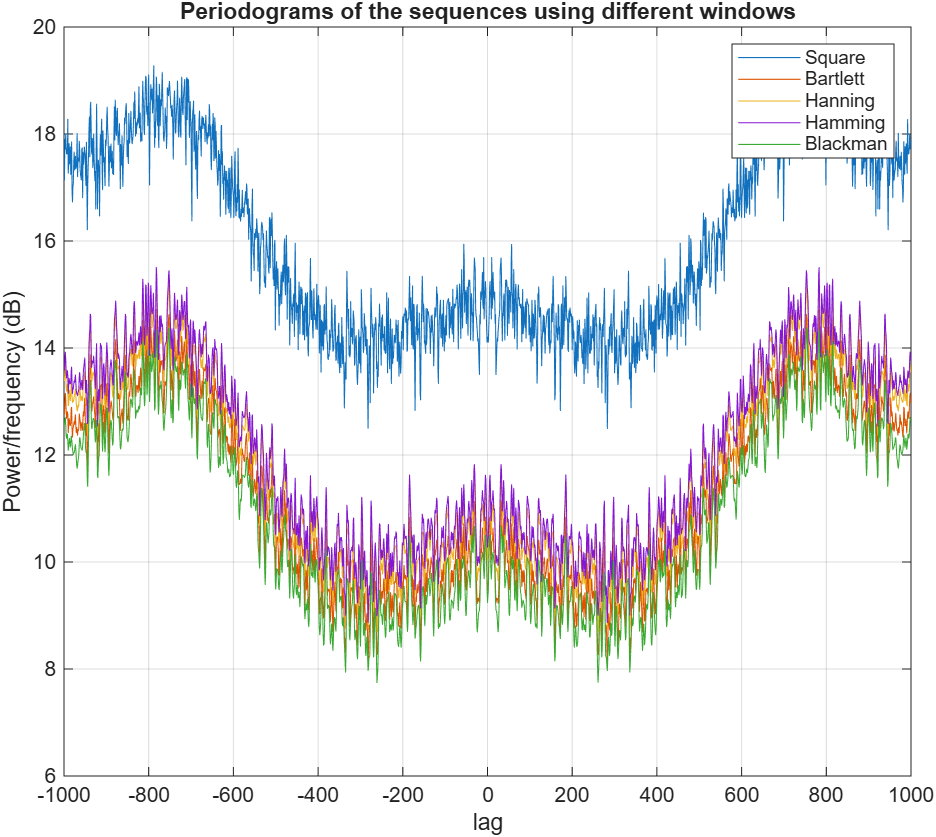
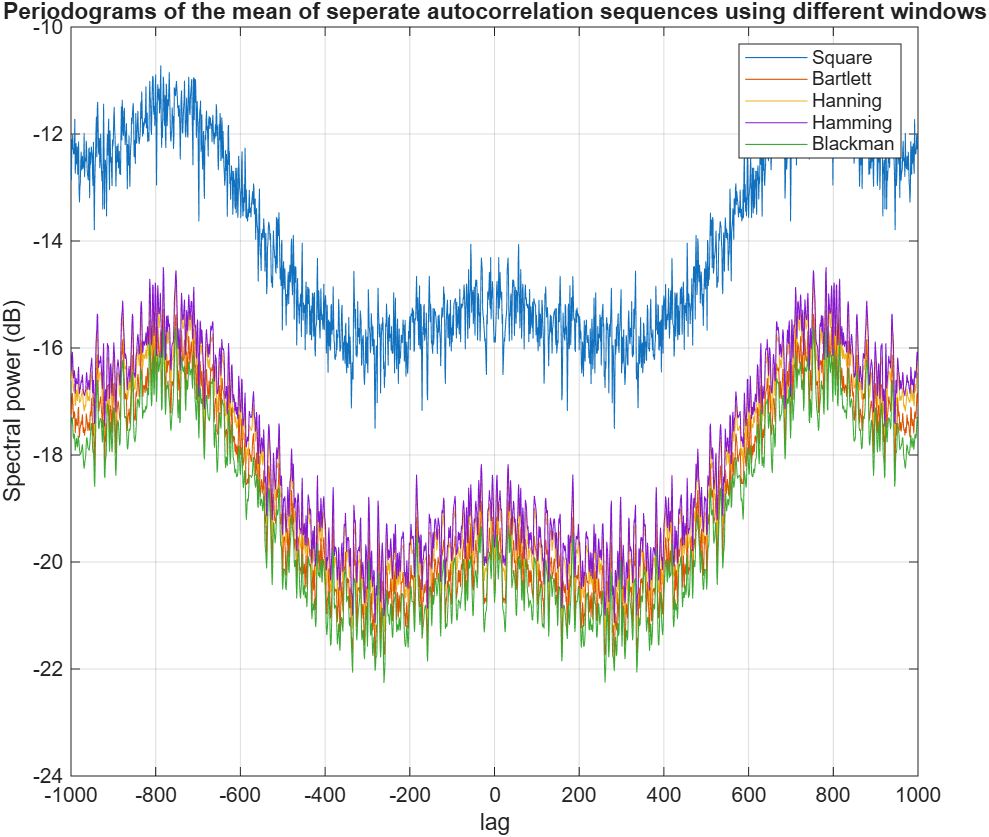
Småändringar

diff --git a/Lab 1/Lab1.m b/Lab 1/Lab1.m
@@ -8,7 +8,7 @@ load("lab1_data.mat");
 
 %% 2.1
 
-[r,k] = my_acs(X);
+[r,k] = acs2(X);
 
 % Plot
 figure;
@@ -31,7 +31,7 @@ n = 24; % Val av realisering för test på en av dem
 my_realization = X(:,n);
 
 %% Baseline periodogram
-[rb,~] = my_acs(my_realization);
+[rb,~] = acs2(my_realization);
 Pt = fft(rb);
 % figure()
 % plot(k, 10*log10(abs(P)));
@@ -90,7 +90,7 @@ grid on;
 
 for i = 1:length(X(1,:))
     realization = X(:,i);
-    [rtemp,~] = my_acs(realization);
+    [rtemp,~] = acs2(realization);
     P(:,i) = fft(rtemp);
     P1(:,i) = my_periodogram(realization,'bartlett');
     P2(:,i) = my_periodogram(realization,'hanning');
@@ -98,7 +98,7 @@ for i = 1:length(X(1,:))
     P4(:,i) = my_periodogram(realization,'blackman');
     clear rtemp
 end
-meanP = mean(P,2);
+meanP = mean(P, 2);
 meanP1 = mean(P1, 2);
 meanP2 = mean(P2, 2);
 meanP3 = mean(P3, 2);
@@ -107,17 +107,17 @@ meanP4 = mean(P4, 2);
 %% Compare averaged periodogram estimates
 figure;
 plot(k, 10*log10(abs([meanP, meanP1, meanP2, meanP3, meanP4])));
-title('Periodograms of the sequences using different windows')
+title('Periodograms of the mean of seperate autocorrelation sequences using different windows')
 legend('Square', 'Bartlett','Hanning','Hamming','Blackman');
 xlabel('lag');
-ylabel('Power/frequency (dB)');
+ylabel('Spectral power (dB)');
 grid on;
 
 %% The periodograms from the complete acs
 
 x = X(:);
 
-[rx, kx] = my_acs(x);
+[rx, kx] = acs2(x);
 
 
 Pb = fft(rx);
@@ -134,7 +134,7 @@ plot(kx, 10*log10(abs([Pb, ...
                        Pbartlett, ...
                        Phanning, ...
                        Phamming, ...
-                       Pblackman])));
+                       Pblackman])),'*');
 
 legend('Baseline','Bartlett','Hanning','Hamming','Blackman');
 xlabel('Lag');

diff --git a/Lab 1/my_periodogram.m b/Lab 1/my_periodogram.m
@@ -20,6 +20,6 @@ end
 w = w(:);
 x2 = x.*w; % Apply the window scaling to the sample vector, multiplication in time domain.
 
-[r,~] = my_acs(x2); % Calculate the new window scaled correlation factors
+[r,~] = acs2(x2); % Calculate the new window scaled correlation factors
 
 P = fft(r); % perform DFT on the correlation factors and return the resulting periodogram.
